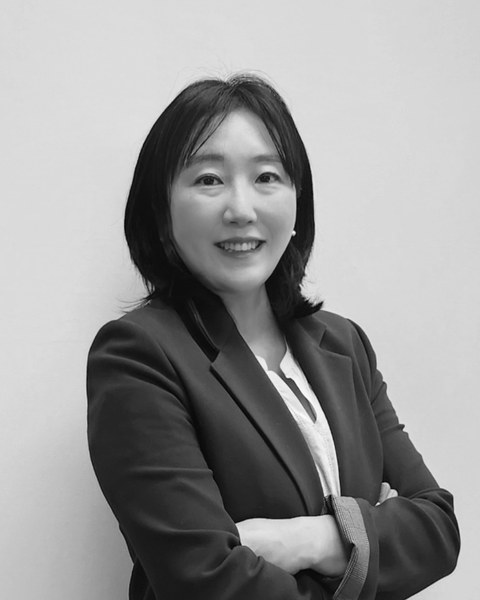
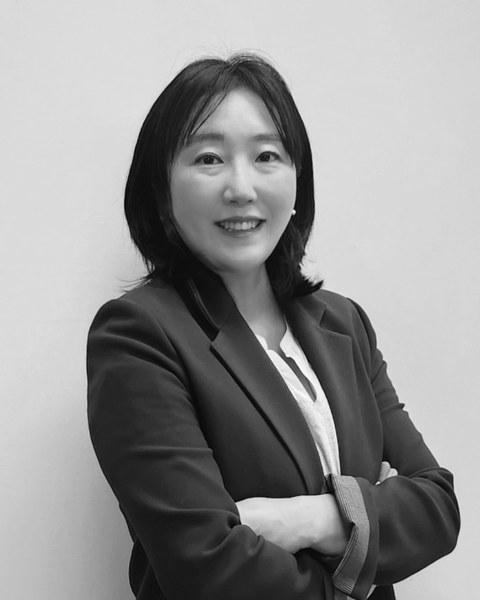
Nudge 김금단 up slightly within frame
Small headroom trim (top 0.16 -> 0.18) per feedback.

diff --git a/process-teachers.js b/process-teachers.js
@@ -11,7 +11,7 @@ const OUT_W = 480, OUT_H = 600; // 4:5 portrait, consistent across all cards
 const photos = [
   { file: '디쌤 원장 프로필.jpg', out: 'teacher-disaem.jpg', top: 0.07, bottom: 0.88, left: 0.1635, right: 0.8115, normalize: true },
   { file: '김진우 프로필.jpg', out: 'teacher-kimjinwoo.jpg', top: 0.02, bottom: 0.85, left: 0.09, right: 0.92 },
-  { file: '김금단 프로필.png', out: 'teacher-kimgeumdan.jpg', top: 0.16, bottom: 0.74, left: 0.17, right: 0.82 },
+  { file: '김금단 프로필.png', out: 'teacher-kimgeumdan.jpg', top: 0.18, bottom: 0.76, left: 0.17, right: 0.82 },
   { file: '배경호 프로필.jpg', out: 'teacher-baekyungho.jpg', top: 0.015, bottom: 0.87, left: 0.11, right: 0.92 },
   { file: '신병철프로필.png', out: 'teacher-shinbyungchul.jpg', top: 0.02, bottom: 0.804, left: 0.05, right: 0.93 },
   { file: '안소현 프로필.jpg', out: 'teacher-ansoseon.jpg', top: 0.127, bottom: 0.64, left: 0.212, right: 0.778 },

diff --git a/index.html b/index.html
@@ -204,8 +204,8 @@
           <h3>김진우</h3>
           <p class="tcard-role">부원장 · 국어</p>
         </div>
-        <div class="carousel-slide tcard lightbox-trigger" data-name="김금단" data-role="팀장 · 영어" data-photo="assets/teacher-kimgeumdan.jpg?v=8">
-          <div class="tcard-photo-wrap"><img class="tcard-photo" src="assets/teacher-kimgeumdan.jpg?v=8" alt="김금단"></div>
+        <div class="carousel-slide tcard lightbox-trigger" data-name="김금단" data-role="팀장 · 영어" data-photo="assets/teacher-kimgeumdan.jpg?v=9">
+          <div class="tcard-photo-wrap"><img class="tcard-photo" src="assets/teacher-kimgeumdan.jpg?v=9" alt="김금단"></div>
           <h3>김금단</h3>
           <p class="tcard-role">팀장 · 영어</p>
         </div>
